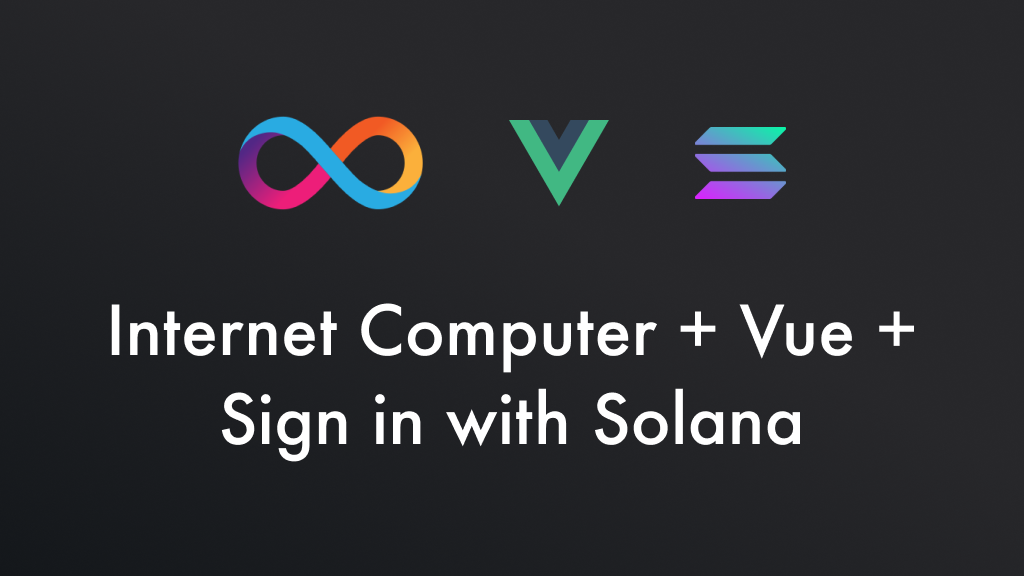
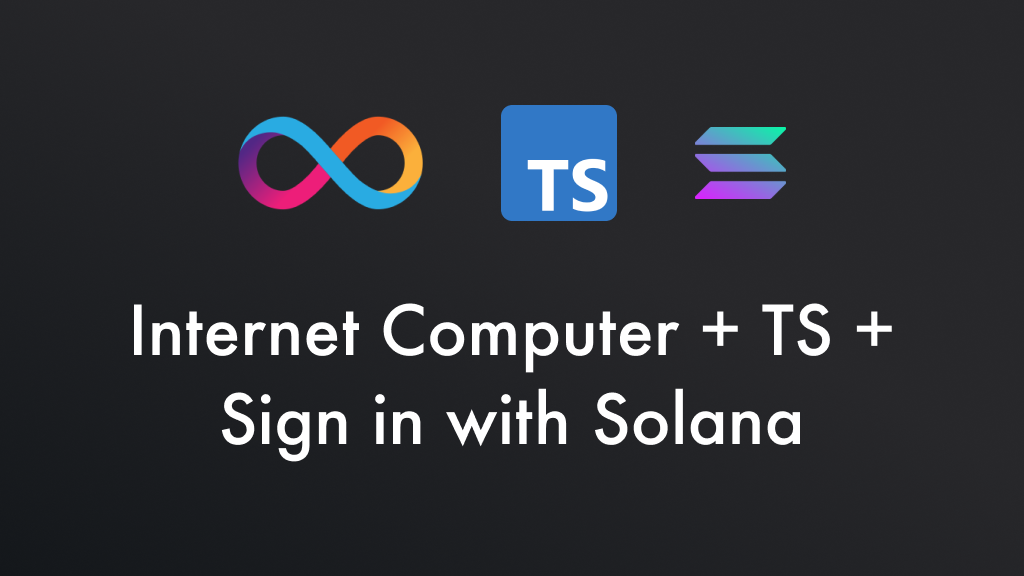
Refactor

Changed region(s): [[0.0938, 0.5, 0.9062, 0.6562], [0.4688, 0.1562, 0.625, 0.4062]]

diff --git a/packages/frontend/src/main.ts b/packages/frontend/src/main.ts
@@ -1,5 +1,5 @@
 import "./style.css";
-import typescriptLogo from "/typescript.svg";
+import tsLogo from "/typescript.svg";
 import icLogo from "/ic.svg";
 import solLogo from "/solana.svg";
 import { canisterId } from "../../ic_siws_provider/declarations/index";
@@ -11,156 +11,191 @@ import {
 } from "@solana/wallet-adapter-base";
 import { localStore } from "./state";
 
-const siws = new SiwsManager(canisterId);
-const solConnect = new SolanaConnect();
+const SELECTORS = {
+  appContainer: "#app",
+  solPubKey: "#solPubKey",
+  icPrincipal: "#icPrincipal",
+  connectButton: "#connectButton",
+  loginButton: "#loginButton",
+  logoutButton: "#logoutButton",
+  error: "#error",
+} as const;
 
-document.querySelector<HTMLDivElement>("#app")!.innerHTML = `
-    <div>
-      <a href="https://internetcomputer.org" target="_blank">
-        <img src="${icLogo}" class="logo" alt="Internet Computer" />
-      </a>
-      <a href="https://solana.com" target="_blank">
-        <img src="${solLogo}" class="logo" alt="Solana" />
-      </a>
-      <a href="https://www.typescriptlang.org/" target="_blank">
-        <img src="${typescriptLogo}" class="logo" alt="TypeScript" />
-      </a>
-    </div>
-    <h1>Sign in with Solana</h1>
-    <div>This demo application and template demonstrates how to sign in Solana users into an IC canister using <a href="https://www.npmjs.com/package/ic-siws-js">ic-siws-js</a> and the <a href="https://github.com/kristoferlund/ic-siws">ic-siws-provider</a> canister.</div>
-    <div class="pill-container">
-      <div class="pill">Vanilla TS</div>
-      <div class="pill">No framework</div>
-    </div>
-    <div class="container">
-      <div id="solPubKey" style="display: none"></div>
-      <div id="icPrincipal" style="display: none"></div>
-      <button id="connectButton" type="button">Connect wallet</button>
-      <button id="loginButton" type="button" style="display: none">Login</button>
-      <button id="logoutButton" type="button" style="display: none">Logout</button>
-      <div class="error" id="error" style="display: none"></div>
-    </div>
-    <div className="links">
-      <a
-        href="https://github.com/kristoferlund/ic-siws-vanilla-ts-demo"
-         target="_blank"
-         rel="noreferrer"
-      >
-        <img src="https://img.shields.io/badge/github-ic--siws--vanilla--ts--demo-blue.svg?style=for-the-badge" />
-      </a>
-    </div>
-`;
+type SelectorKey = keyof typeof SELECTORS;
 
-const solPubKeyDiv = document.querySelector<HTMLDivElement>("#solPubKey")!;
-const icPrincipalDiv = document.querySelector<HTMLDivElement>("#icPrincipal")!;
-const connectButton =
-  document.querySelector<HTMLButtonElement>("#connectButton")!;
-const loginButton = document.querySelector<HTMLButtonElement>("#loginButton")!;
-const logoutButton =
-  document.querySelector<HTMLButtonElement>("#logoutButton")!;
-const errorDiv = document.querySelector<HTMLDivElement>("#error")!;
-
-connectButton.addEventListener("click", () => solConnect.openMenu());
-loginButton.addEventListener("click", () => siws.login());
-logoutButton.addEventListener("click", () => siws.clear());
-
-function updateIcPrincipalDiv() {
-  const identity = siwsStateStore.getSnapshot().context.identity;
-  if (identity) {
-    let principal = identity.getPrincipal().toText();
-    icPrincipalDiv.innerHTML =
-      principal.slice(0, 4) + "..." + principal.slice(-4);
-    icPrincipalDiv.style.display = "block";
-    return;
-  }
-  icPrincipalDiv.innerHTML = "";
-  icPrincipalDiv.style.display = "none";
+interface Elements {
+  appContainer: HTMLElement;
+  solPubKey: HTMLDivElement;
+  icPrincipal: HTMLDivElement;
+  connectButton: HTMLButtonElement;
+  loginButton: HTMLButtonElement;
+  logoutButton: HTMLButtonElement;
+  error: HTMLDivElement;
 }
 
-function showHideConnectButton() {
-  const adapter = localStore.getSnapshot().context.adapter;
-  if (adapter) {
-    connectButton.style.display = "none";
-    const address = adapter.publicKey?.toString();
-    if (address) {
-      solPubKeyDiv.style.display = "block";
-      solPubKeyDiv.innerHTML = address.slice(0, 4) + "..." + address.slice(-4);
+class App {
+  private siws = new SiwsManager(canisterId);
+  private solConnect = new SolanaConnect();
+  private elements!: Elements;
+
+  private getElement<K extends keyof Elements>(key: K): Elements[K] {
+    const selector = SELECTORS[key as SelectorKey];
+    const el = document.querySelector<Elements[K]>(selector);
+    if (!el) throw new Error(`Missing element: ${selector}`);
+    return el;
+  }
+
+  constructor() {
+    const container = this.getElement("appContainer");
+    this.renderStaticContent(container);
+
+    this.elements = {
+      appContainer: container,
+      solPubKey: this.getElement("solPubKey"),
+      icPrincipal: this.getElement("icPrincipal"),
+      connectButton: this.getElement("connectButton"),
+      loginButton: this.getElement("loginButton"),
+      logoutButton: this.getElement("logoutButton"),
+      error: this.getElement("error"),
+    };
+
+    this.attachEventListeners();
+    this.subscribeSolanaChanges();
+    this.subscribeSiwsState();
+    this.refreshUi();
+  }
+
+  private renderStaticContent(container: HTMLElement): void {
+    container.innerHTML = `
+      <div class="logo-group">
+        <a href="https://internetcomputer.org" target="_blank">
+          <img src="${icLogo}" class="logo" alt="Internet Computer" />
+        </a>
+        <a href="https://solana.com" target="_blank">
+          <img src="${solLogo}" class="logo" alt="Solana" />
+        </a>
+        <a href="https://www.typescriptlang.org/" target="_blank">
+          <img src="${tsLogo}" class="logo" alt="TypeScript" />
+        </a>
+      </div>
+      <h1>Sign in with Solana</h1>
+      <p>This demo authenticates Solana users against an IC canister using <a href="https://www.npmjs.com/package/ic-siws-js">ic-siws-js</a>.</p>
+      <div class="pill-container">
+        <span class="pill">Vanilla TS</span>
+        <span class="pill">No framework</span>
+      </div>
+      <div class="container">
+        <div id="solPubKey" style="display: none"></div>
+        <div id="icPrincipal" style="display: none"></div>
+        <button id="connectButton" type="button">Connect wallet</button>
+        <button id="loginButton" type="button" style="display: none">Login</button>
+        <button id="logoutButton" type="button" style="display: none">Logout</button>
+        <div id="error" class="error" style="display: none"></div>
+      </div>
+      <div class="links">
+        <a href="https://github.com/kristoferlund/ic-siws-vanilla-ts-demo" target="_blank" rel="noreferrer">
+          <img src="https://img.shields.io/badge/github-ic--siws--vanilla--ts--demo-blue.svg?style=for-the-badge" alt="GitHub repo" />
+        </a>
+      </div>
+    `;
+  }
+
+  private attachEventListeners(): void {
+    this.elements.connectButton.addEventListener("click", () =>
+      this.solConnect.openMenu(),
+    );
+    this.elements.loginButton.addEventListener("click", () =>
+      this.siws.login(),
+    );
+    this.elements.logoutButton.addEventListener("click", () =>
+      this.siws.clear(),
+    );
+  }
+
+  private subscribeSolanaChanges(): void {
+    this.solConnect.onWalletChange((adapter: Adapter | null) => {
+      if (adapter) {
+        localStore.send({ type: "setAdapter", adapter });
+        this.siws.setAdapter(adapter as SignInMessageSignerWalletAdapter);
+      }
+      this.refreshUi();
+    });
+  }
+
+  private subscribeSiwsState(): void {
+    siwsStateStore.subscribe(({ context }) => {
+      const {
+        prepareLoginStatus,
+        loginStatus,
+        loginError,
+        prepareLoginError,
+        signMessageStatus,
+      } = context;
+      const btn = this.elements.loginButton;
+      const err = this.elements.error;
+
+      if (prepareLoginStatus === "preparing") {
+        btn.textContent = "Preparing...";
+        btn.disabled = true;
+      } else if (loginStatus === "logging-in") {
+        btn.textContent = "Logging in...";
+        btn.disabled = true;
+      } else if (signMessageStatus === "pending") {
+        btn.textContent = "Signing message...";
+        btn.disabled = true;
+      } else {
+        btn.textContent = "Login";
+        btn.disabled = false;
+      }
+
+      const message = (loginError || prepareLoginError)?.message || "";
+      this.setDisplay(err, Boolean(message));
+      err.textContent = message;
+
+      this.refreshUi();
+    });
+  }
+
+  private refreshUi(): void {
+    this.toggleIcPrincipal();
+    this.toggleLoginLogout();
+    this.toggleSolPubKey();
+  }
+
+  private setDisplay(el: HTMLElement, show: boolean): void {
+    el.style.display = show ? "" : "none";
+  }
+
+  private toggleIcPrincipal(): void {
+    const identity = siwsStateStore.getSnapshot().context.identity;
+    if (identity) {
+      const id = identity.getPrincipal().toText();
+      this.elements.icPrincipal.textContent = `${id.slice(0, 4)}...${id.slice(-4)}`;
+      this.setDisplay(this.elements.icPrincipal, true);
+    } else {
+      this.setDisplay(this.elements.icPrincipal, false);
     }
-  } else {
-    solPubKeyDiv.style.display = "none";
+  }
+
+  private toggleSolPubKey(): void {
+    const adapter = localStore.getSnapshot().context.adapter;
+    if (adapter?.publicKey) {
+      const addr = adapter.publicKey.toString();
+      this.elements.solPubKey.textContent = `${addr.slice(0, 4)}...${addr.slice(-4)}`;
+      this.setDisplay(this.elements.solPubKey, true);
+    } else {
+      this.setDisplay(this.elements.solPubKey, false);
+    }
+  }
+
+  private toggleLoginLogout(): void {
+    const adapter = localStore.getSnapshot().context.adapter;
+    const identity = siwsStateStore.getSnapshot().context.identity;
+
+    this.setDisplay(this.elements.connectButton, !adapter);
+    this.setDisplay(this.elements.loginButton, Boolean(adapter && !identity));
+    this.setDisplay(this.elements.logoutButton, Boolean(adapter && identity));
   }
 }
 
-function showHideLoginLogout() {
-  const adapter = localStore.getSnapshot().context.adapter;
-  if (!adapter) {
-    return;
-  }
-  const identity = siwsStateStore.getSnapshot().context.identity;
-  if (identity) {
-    loginButton.style.display = "none";
-    logoutButton.style.display = "block";
-    return;
-  }
-  loginButton.style.display = "block";
-  logoutButton.style.display = "none";
-}
-
-function refreshUi() {
-  updateIcPrincipalDiv();
-  showHideLoginLogout();
-  showHideConnectButton();
-}
-
-refreshUi();
-
-siwsStateStore.subscribe((snapshot) => {
-  const {
-    prepareLoginStatus,
-    prepareLoginError,
-    loginStatus,
-    loginError,
-    signMessageStatus,
-  } = snapshot.context;
-
-  if (loginStatus === "idle") {
-    loginButton.innerHTML = "Login";
-    loginButton.disabled = false;
-  }
-  if (prepareLoginStatus === "preparing") {
-    loginButton.innerHTML = "Preparing...";
-    loginButton.disabled = true;
-  }
-  if (loginStatus === "logging-in") {
-    loginButton.innerHTML = "Logging in...";
-    loginButton.disabled = true;
-  }
-  if (signMessageStatus === "pending") {
-    loginButton.innerHTML = "Signing SIWE message...";
-    loginButton.disabled;
-  }
-  if (loginStatus === "error") {
-    loginButton.innerHTML = "Login";
-    loginButton.disabled = false;
-  }
-  if (loginError) {
-    errorDiv.innerHTML = loginError.message;
-    errorDiv.style.display = "block";
-  } else if (prepareLoginError) {
-    errorDiv.innerHTML = prepareLoginError.message;
-    errorDiv.style.display = "block";
-  } else {
-    errorDiv.innerHTML = "";
-    errorDiv.style.display = "none";
-  }
-
-  refreshUi();
-});
-
-solConnect.onWalletChange((adapter: Adapter | null) => {
-  if (adapter) {
-    localStore.send({ type: "setAdapter", adapter });
-    siws.setAdapter(adapter as SignInMessageSignerWalletAdapter);
-    refreshUi();
-  }
-});
+new App();
